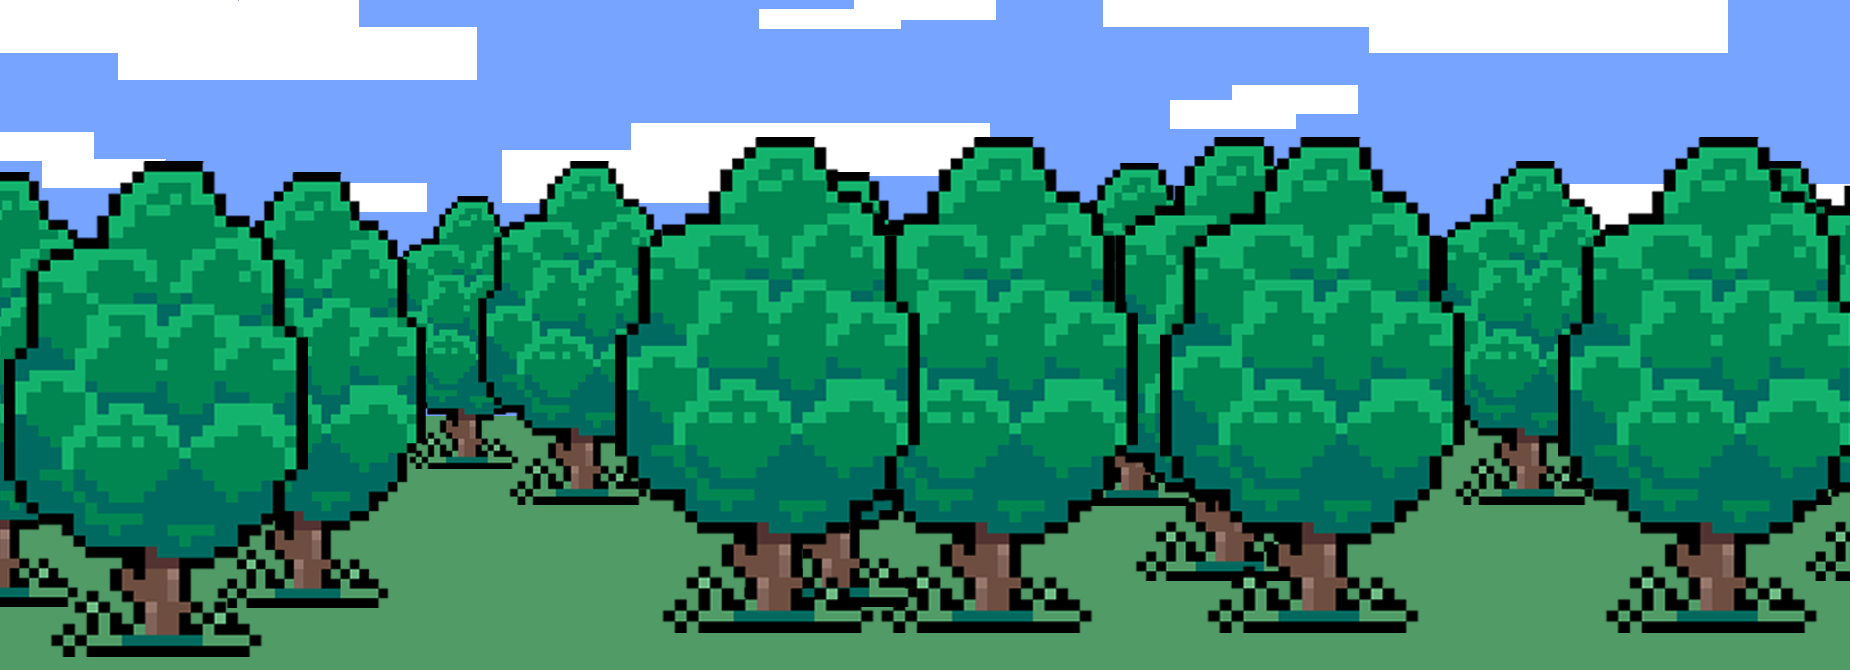
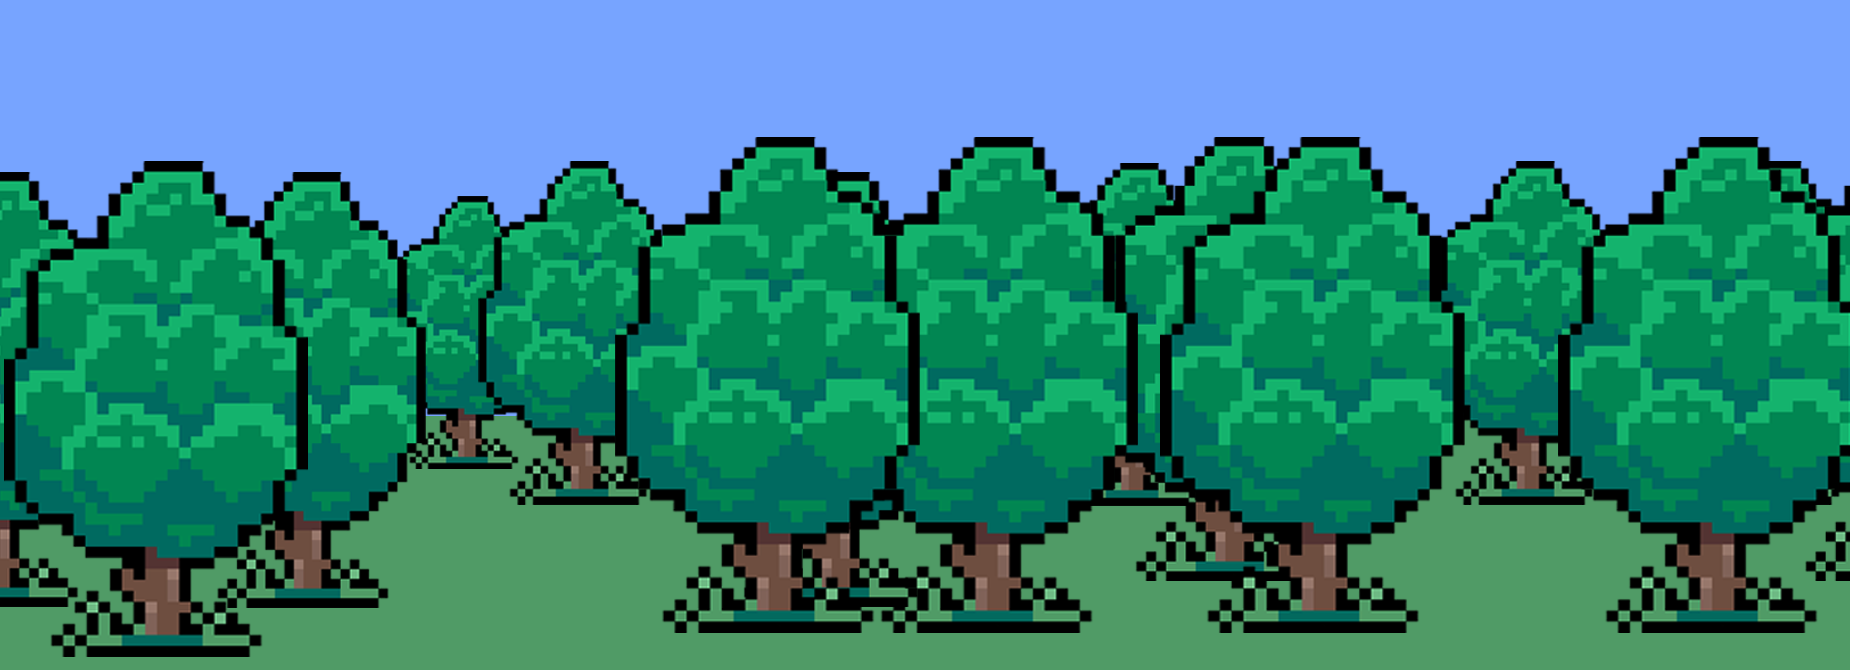
update trash

diff --git a/js/gameModes/spaceJS.js b/js/gameModes/spaceJS.js
@@ -8,7 +8,8 @@ const H = canvas.height;
 //GLOBALS
 //add dash
 //clouds moving
-//trash img
+//trash img update
+//rotate trash
 //animation bugged trowing
 class PropSpace {
     tImg = new Image()
@@ -110,6 +111,7 @@ class Shot {
             } else {this.dx = -this.dx;}
             if (this.y >= yp + 50 || colision){
                 startShoot = false;
+                shoted = false;
                 dashAvailabe = false; 
                 sizeRock = Math.floor(Math.random()* (25 - 15)+15)           
             }
@@ -178,7 +180,38 @@ class Trees {
         ctx.drawImage(this.img, this.x, this.y, this.w, this.h)
     }
 }
-
+//clouds
+class C9 {
+    constructor(velocity, color, x, y, w, h){
+        this.velocity= velocity;
+        this.color = color;
+        this.x = x;
+        this.y = y;
+        this.h = h;
+        this.w = w;
+    }
+    update(){
+        this.x += this.velocity
+        if(this.x > W){
+            this.x = -this.w
+        }
+        ctx.fillStyle= this.color
+        ctx.fillRect(this.x, this.y, this.w, this.h)
+    }
+}
+//clouds
+let clouds = []
+clouds.push(new C9(0.04, "#EBEBEB", 150, 45, 350, 50),
+            new C9(0.04, "white", 2, 2, 350, 50),
+            new C9(0.02, "#EBEBEB", 45, 140, 120, 30),
+            new C9(0.02, "white", 2, 132, 120, 30),
+            new C9(0.08, "#EBEBEB", 750, 10, 160, 30),
+            new C9(0.08, "white", 800, 0, 180, 20),
+            new C9(0.05, "#EBEBEB", 1350, 0, 400, 55),
+            new C9(0.05, "white", 1100, 0, 400, 30),
+            new C9(0.05, "white", 1750, 100, 400, 35),
+            new C9(0.1, "#EBEBEB", 1150, 100, 150, 35),
+            new C9(0.1, "white", 1200, 80, 150, 35))
 //player position and atributes
 let xp = 100, yp = 700, w= 77, h= 80, pMovement = 1.3, playerBag = [], points = 0; 
 let idleLeft = new Image(),idleRight = new Image(),walkRight = new Image(),walkLeft = new Image(),trowLeft = new Image(),trowRight = new Image(),bg = new Image();
@@ -189,7 +222,7 @@ walkLeft.src = '../media/animation_player/walk_left2.png'; walkLeft.width = w; w
 trowLeft.src = '../media/animation_player/trow_left1.png'; trowLeft.width = w; trowLeft.height = h;
 trowRight.src = '../media/animation_player/trow_right1.png'; trowRight.width = w; trowRight.height = h;
 idleLeft.src = '../media/animation_player/static_left2.png'; idleLeft.width = w; idleLeft.height = h;
-let frameIndex = 0
+let frameIndex = 0,frameIndexTrow = 0;
 //keys
 let rightKey = false, leftKey = false, upKey = false, downKey = false, fleft = false, spaceKey = false, easterEgg = false;
 //shot
@@ -199,7 +232,8 @@ let colision = false, xrSpace, yrSpace;
 //calculate Shots
 let angle, startShoot = false, dashAvailabe = false, scale;
 //trash
-let trash = [], trashSize, bgGround =  new Image(), numTrash = 10, trashSrc = ['../media/props/glassWineFull.png', '../media/props/matalCanSoda.png', '../media/props/plasticBleach.png', '../media/props/plasticPop4.png'];
+let trash = [], trashSize, bgGround =  new Image(), numTrash = 10, type, cat;
+let trashSrc = ['../media/props/glassWineFull.png', '../media/props/metalCanSoda.png', '../media/props/plasticBleach.png', '../media/props/plasticPop4.png'];
 //arvores
 let trees = [] 
 
@@ -229,8 +263,12 @@ window.addEventListener('keyup', e => {
 //canvas EVENTS
 canvas.addEventListener('click', e => {
     let xr = e.offsetX; let yr = e.offsetY;
-    shot.shotsCalculator(xr, yr)
-    shoted = true;
+    
+    if (!startShoot)
+    {
+        shot.shotsCalculator(xr, yr)
+        shoted = true;
+    }
 })
 
 //function
@@ -252,7 +290,22 @@ function trashRender(){
                         y = Math.random() * (tree.hhMax- trashSize) + tree.hhMin
                     }
                 })
-                trash.push(new PropSpace(trashSize, trashSrc[0], 'metal', 'trash', x, y))
+                let random = Math.round(Math.random() * 3)
+                switch (random) {
+                    case 0:
+                        type = 'glass'
+                        cat = 'bottle'
+                    case 1:
+                        type = 'metal'
+                        cat = 'soda'
+                    case 2:
+                        type = 'plastic'
+                        cat = 'bottle'
+                    case 3:
+                        type = 'plastic'
+                        cat = 'bottle'
+                }
+                trash.push(new PropSpace(trashSize, trashSrc[random], type, cat, x, y))
             }
         }
     })
@@ -295,6 +348,8 @@ function render() {
     //bg
     bg.src = '../media/bgSpace.png';
     ctx.drawImage(bg, 0, 0)
+    //clouds
+    clouds.forEach((cloud) => {cloud.update()})
     //ground
     ctx.fillStyle = 'rgb(80,155,102)'
     ctx.fillRect(0, 670, W, H)
@@ -373,23 +428,26 @@ function render() {
             if(currentFrame >= 120) currentFrame = 0;
         }
     }
+
+    
     if(shoted && startShoot){
         //trow
         if(fleft){
-            ctx.drawImage(trowLeft, frameIndex * 30, 0, 30, 40, xp, yp, w, h);
-            if(currentFrame%15 == 0)  frameIndex++;
-            if (frameIndex == 4) frameIndex = 0, shoted = false; //reset the number of frames counter
+            ctx.drawImage(trowLeft, frameIndexTrow * 30, 0, 30, 40, xp, yp, w, h);
+            if(currentFrame%15 == 0)  frameIndexTrow++;
+            if (frameIndexTrow == 4) frameIndexTrow = 0, shoted = false; //reset the number of frames counter
             if(currentFrame >= 120) currentFrame = 0;
         } else {
-            ctx.drawImage(trowRight, frameIndex * 30, 0, 30, 40, xp, yp, w, h);
-            if(currentFrame%15 == 0)  frameIndex++;
-            if (frameIndex == 4) frameIndex = 0, shoted = false; //reset the number of frames counter
+            ctx.drawImage(trowRight, frameIndexTrow * 30, 0, 30, 40, xp, yp, w, h);
+            if(currentFrame%15 == 0)  frameIndexTrow++;
+            if (frameIndexTrow == 4) frameIndexTrow = 0, shoted = false; //reset the number of frames counter
             if(currentFrame >= 120) currentFrame = 0;
         }
         
     }
     currentFrame++
 }
+
 idleLeft.onload = function () {
     setInterval(render, 1000/120)
 };
